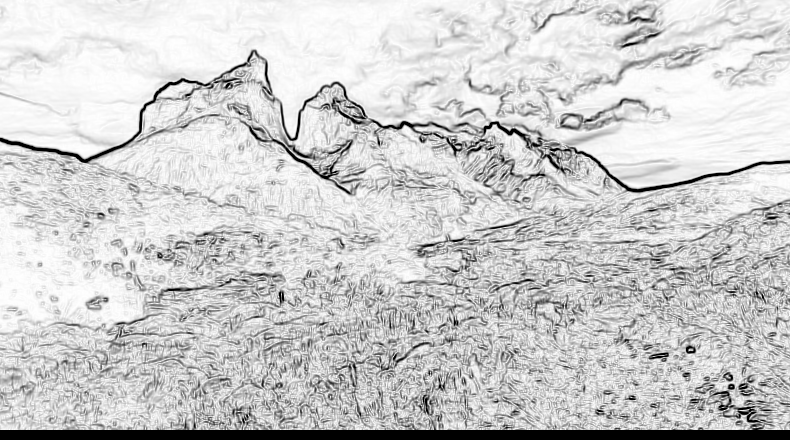
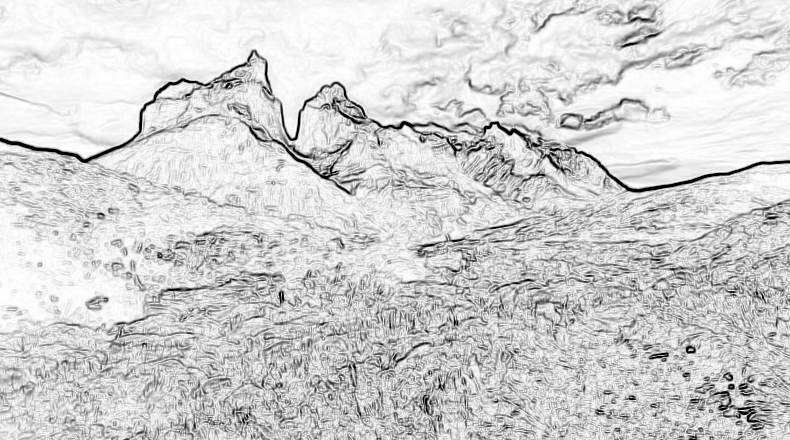
correction de gaussian filter

Changed region(s): [[0.0, 0.975, 1.0, 1.0]]

diff --git a/SPP/src/tp56/SingleThreadedImageFilteringEngine.java b/SPP/src/tp56/SingleThreadedImageFilteringEngine.java
@@ -42,13 +42,23 @@ public class SingleThreadedImageFilteringEngine implements IImageFilteringEngine
 				inImg.getHeight()-2*margin,
 				BufferedImage.TYPE_INT_RGB);
 		for (int x = someFilter.getMargin(); x <inImg.getWidth()-someFilter.getMargin(); x++) {
-			for (int y = someFilter.getMargin(); y < outImg.getHeight()-someFilter.getMargin(); y++) {
+			for (int y = someFilter.getMargin(); y < inImg.getHeight()-someFilter.getMargin(); y++) {
 				someFilter.applyFilterAtPoint(x, y, inImg,outImg);
 			}
 
 		}
-
-		
-	}
+		this.inImg = this.outImg;
+//        this.outImg = new BufferedImage(this.inImg.getWidth() - 2 * someFilter.getMargin(),
+//                this.inImg.getHeight() - 2 * someFilter.getMargin(),
+//                BufferedImage.TYPE_INT_RGB);
+//
+//        for(int x = someFilter.getMargin(); x < this.inImg.getWidth() - someFilter.getMargin(); x++) {
+//            for(int y = someFilter.getMargin(); y < this.inImg.getHeight() - someFilter.getMargin(); y++) {
+//                someFilter.applyFilterAtPoint(x, y, this.inImg, this.outImg);
+//            }
+//        }
+//        this.inImg = this.outImg;
+//		
+		}
 
 }

diff --git a/SPP/src/tp56/GaussianContourExtractorFilter.java b/SPP/src/tp56/GaussianContourExtractorFilter.java
@@ -14,8 +14,8 @@ public class GaussianContourExtractorFilter implements IFilter{
 	@Override
 	public void applyFilterAtPoint(int x, int y, BufferedImage imgIn, BufferedImage imgOut) {
 		double dx=0,dy=0;
-		for (int i = -getMargin(); i < getMargin(); i++) {
-			for (int j = -getMargin(); j < getMargin(); j++) {
+		for (int i = -getMargin(); i <= getMargin(); i++) {
+			for (int j = -getMargin(); j <= getMargin(); j++) {
 				int rgb=imgIn.getRGB(x+i, y+j);
 				int bleu=rgb& 0x000000FF;
 				double temp=bleu*Math.exp(-0.25*(Math.pow(i, 2)+Math.pow(j, 2)));
@@ -27,7 +27,7 @@ public class GaussianContourExtractorFilter implements IFilter{
 		double res = Math.sqrt(Math.pow(dx, 2)+Math.pow(dy, 2));
 		int gaussian= (int)	Math.round(Math.max(0.0, (double)255-0.5*res));
 		imgOut.setRGB(x-this.getMargin(), y-this.getMargin(), new Color(gaussian,gaussian,gaussian).getRGB());
-		
+
 		
 	}
 
